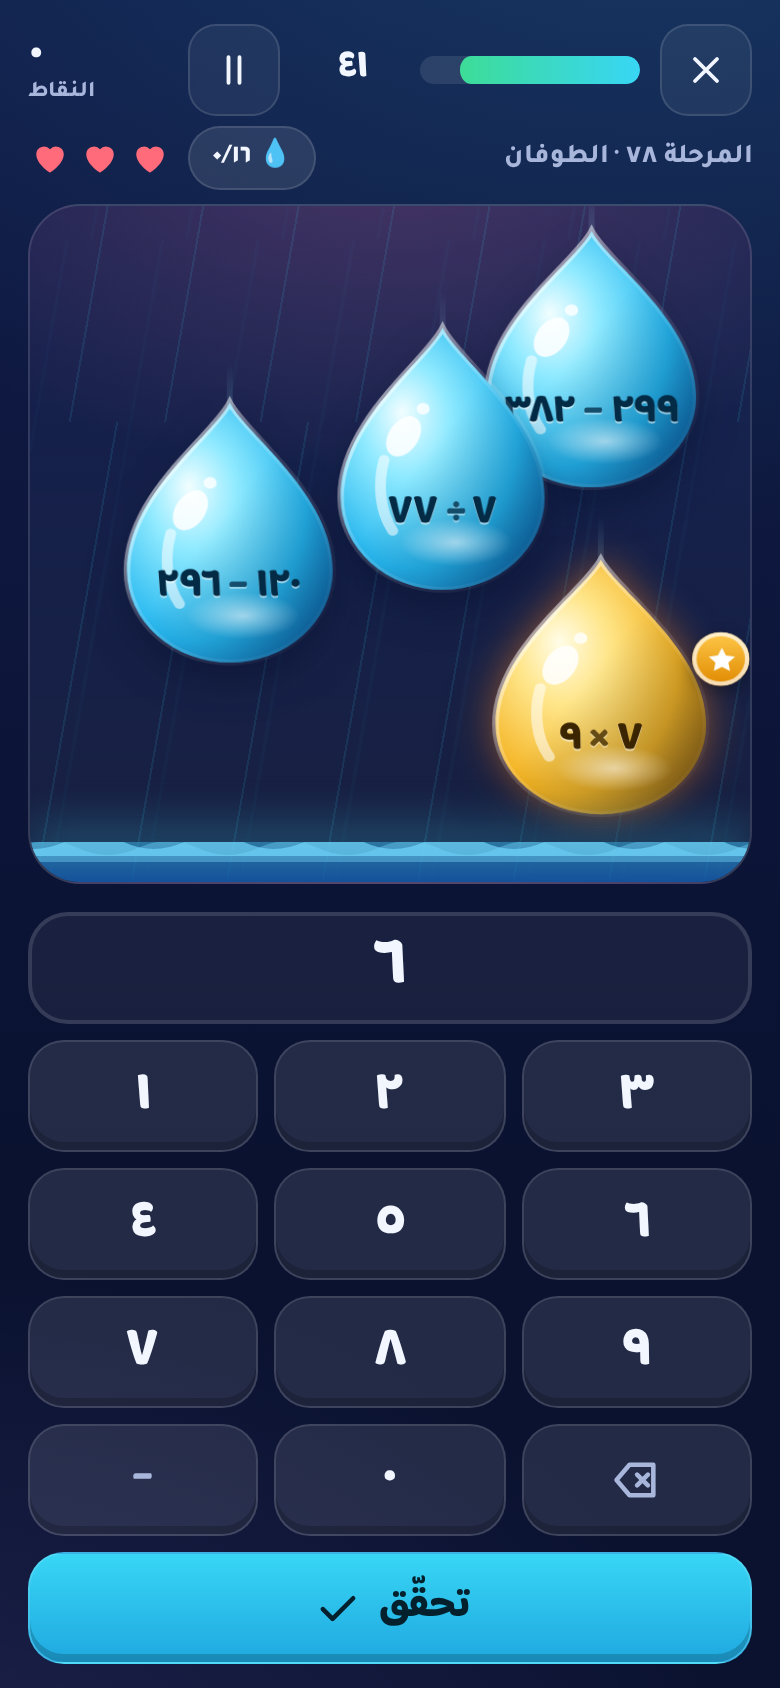
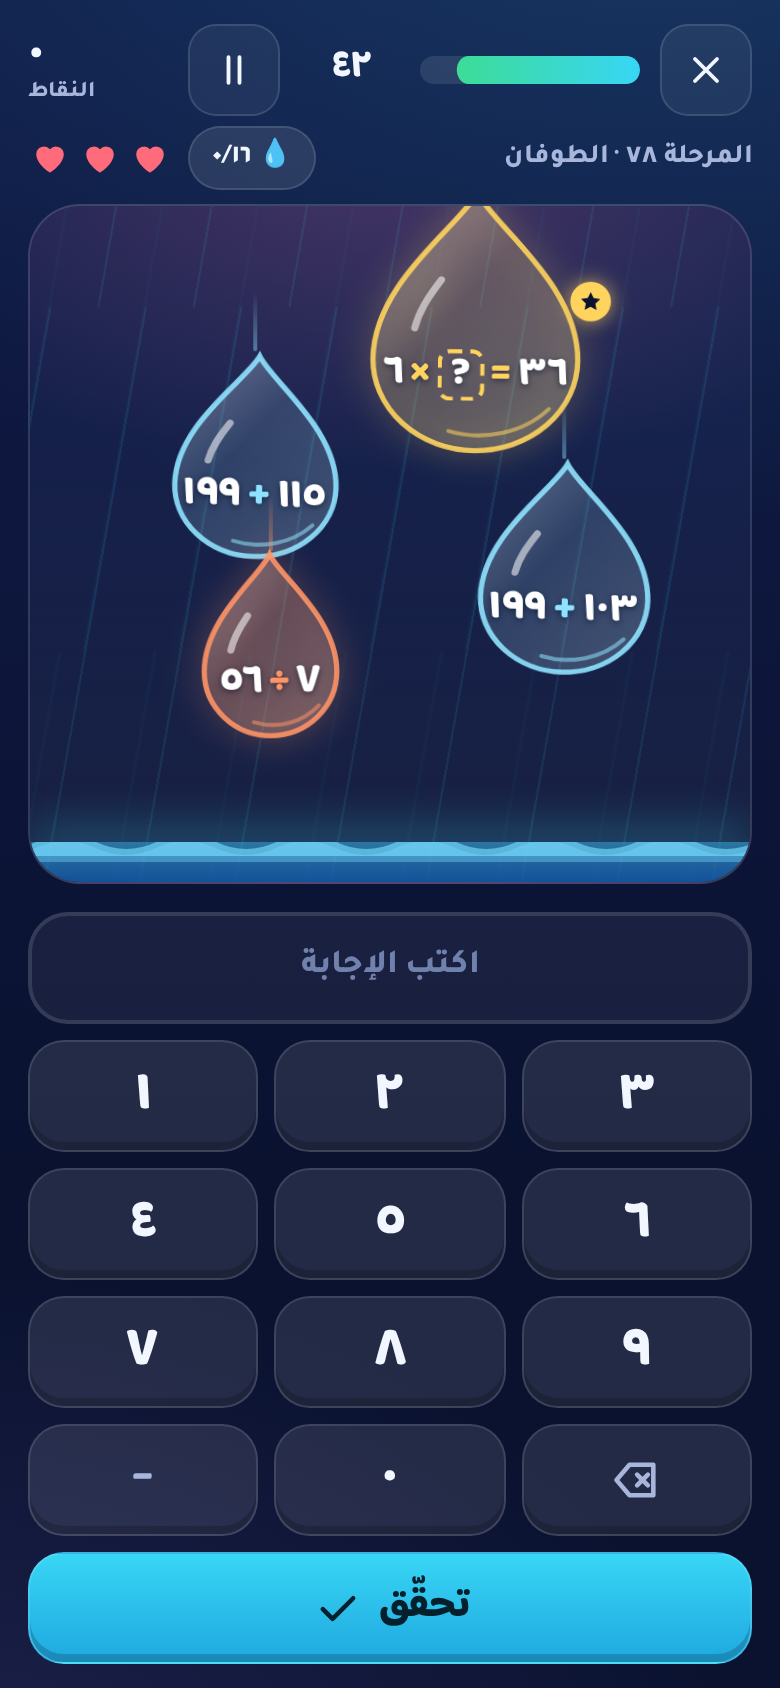
Simple transparent drops: thin tinted rim, light sheen, white equations, spawn pop-in and gentle sway; matching mascot
Claude-Session: https://claude.ai/code/session_01EwnLF9W4G1tnJmqJDCphk1

Changed region(s): [[0.1538, 0.1232, 0.9846, 0.4929], [0.3692, 0.5545, 0.6154, 0.5853], [0.4308, 0.0308, 0.4923, 0.0616]]

diff --git a/public/styles/main.css b/public/styles/main.css
@@ -531,49 +531,43 @@ details.how ul { margin: 6px 0 0; padding-inline-start: 20px; color: var(--muted
 .sky.flash::after { content: ''; position: absolute; inset: 0; background: #fff; animation: flashOut .45s both; pointer-events: none; }
 @keyframes flashOut { from { opacity: .8; } to { opacity: 0; } }
 .sky.frozen { box-shadow: inset 0 0 0 3px #BFF3FF, inset 0 0 40px rgba(191, 243, 255, .35); }
-.sky.frozen .drop { filter: saturate(.6) brightness(1.15); }
+.sky.frozen .drop { --tint: #DFF8FF; }
 .sky.veiled .drop { filter: blur(12px); opacity: .4; }
-/* ---- القطرة: شكل زجاجي حقيقي (SVG) ---- */
-.drop { position: absolute; top: 0; left: 0; width: 92px; height: 98px; will-change: transform; contain: layout style; pointer-events: none; }
-.drop::before { /* أثر السقوط */ content: ''; position: absolute; left: 50%; bottom: 78%; width: 3px; height: 46px; transform: translateX(-50%); border-radius: 3px;
-  background: linear-gradient(180deg, transparent, rgba(160, 230, 255, .32)); }
-.drop-inner { position: absolute; inset: 0; display: block; transform-origin: 50% 85%; animation: dropWobble 1.6s ease-in-out infinite; }
-.drop-shape { position: absolute; inset: 0; width: 100%; height: 100%; overflow: visible; filter: drop-shadow(0 10px 10px rgba(0, 10, 40, .38)); }
-.drop .d-body { fill: url(#dg-normal); transition: fill .25s; }
-.drop.near .d-body { fill: url(#dg-near); }
-.drop.k-gold .d-body { fill: url(#dg-gold); }
-.drop.k-ice .d-body { fill: url(#dg-ice); }
-.drop.k-storm .d-body { fill: url(#dg-storm); }
+/* ---- القطرة: شفافة وبسيطة ---- */
+.drop { --tint: #8FE3FF; position: absolute; top: 0; left: 0; width: 92px; height: 98px; will-change: transform; contain: layout style; pointer-events: none; }
+.drop.k-gold { --tint: #FFD45E; }
+.drop.k-ice { --tint: #D4F7FF; }
+.drop.k-storm { --tint: #B9A6FF; }
+.drop.near { --tint: #FF9466; }
+.drop::before { /* أثر سقوط خفيف */ content: ''; position: absolute; left: 50%; bottom: 99%; width: 2px; height: 30px; transform: translateX(-50%); border-radius: 2px;
+  background: linear-gradient(180deg, transparent, color-mix(in srgb, var(--tint) 45%, transparent)); }
+.drop-inner { position: absolute; inset: 0; display: block; transform-origin: 50% 80%; animation: dropIn .28s cubic-bezier(.2, .9, .3, 1.3) both, dropSway 2.4s ease-in-out .28s infinite; }
+.drop-shape { position: absolute; inset: 0; width: 100%; height: 100%; overflow: visible; }
+.drop .d-body { fill: var(--tint); fill-opacity: .13; transition: fill .3s; }
+.drop .d-rim { fill: none; stroke: var(--tint); stroke-width: 2.6; stroke-opacity: .9; vector-effect: non-scaling-stroke; transition: stroke .3s; }
+.drop .d-hl { fill: none; stroke: #fff; stroke-opacity: .55; stroke-width: 3.5; stroke-linecap: round; vector-effect: non-scaling-stroke; }
+.drop .d-ref { fill: none; stroke: var(--tint); stroke-opacity: .55; stroke-width: 2; stroke-linecap: round; vector-effect: non-scaling-stroke; }
+.drop.k-gold .drop-shape, .drop.k-storm .drop-shape, .drop.near .drop-shape { filter: drop-shadow(0 0 8px color-mix(in srgb, var(--tint) 55%, transparent)); }
+.drop.near .d-body { fill-opacity: .2; }
 .drop-txt { position: absolute; left: 0; right: 0; top: 47%; bottom: 8%; display: flex; align-items: center; justify-content: center;
-  font-family: var(--font-display); font-weight: 800; font-size: 1.22rem; color: #032B45; letter-spacing: .2px;
-  text-shadow: 0 1px 0 rgba(255, 255, 255, .55); white-space: nowrap; }
+  font-family: var(--font-display); font-weight: 800; font-size: 1.22rem; color: #fff; letter-spacing: .2px;
+  text-shadow: 0 1px 3px rgba(0, 12, 40, .55); white-space: nowrap; }
 .drop.long .drop-txt { font-size: 1.02rem; }
 .drop.xlong .drop-txt { font-size: .9rem; letter-spacing: 0; }
 .sky .ripple, .sky .droplet, .sky .puddle { z-index: 60; }
 .sky .ground { z-index: 50; }
 .drop .dq { direction: ltr; unicode-bidi: isolate; margin: 0; gap: .18em; }
-.drop .dq .op { color: inherit; opacity: .75; }
-.drop .dq .blank { border: 2px dashed currentColor; border-radius: 6px; min-width: 1.15em; padding: 0 .1em; color: inherit; opacity: .9; }
-.drop.near .drop-txt { color: #3A1400; }
-.drop.k-gold .drop-txt { color: #3B2500; }
-.drop.k-ice .drop-txt { color: #053A4C; }
-.drop.k-storm .drop-txt { color: #fff; text-shadow: 0 1px 2px rgba(20, 0, 80, .6); }
-.drop-badge { position: absolute; top: 30%; right: -6px; width: 26px; height: 26px; border-radius: 50%; display: grid; place-items: center;
-  box-shadow: 0 3px 8px rgba(0, 0, 0, .35), inset 0 0 0 2px rgba(255, 255, 255, .7); animation: badgePulse 1.2s ease-in-out infinite; }
-.drop-badge svg { width: 15px; height: 15px; }
-.drop.k-gold .drop-badge { background: linear-gradient(180deg, #FFC94A, #E08A00); }
-.drop.k-ice .drop-badge { background: linear-gradient(180deg, #7FD8F0, #2E8FB8); }
-.drop.k-storm .drop-badge { background: linear-gradient(180deg, #9B8CFF, #5A36E0); }
-.drop.k-gold .drop-shape { filter: drop-shadow(0 0 12px rgba(255, 201, 74, .65)) drop-shadow(0 10px 10px rgba(0, 10, 40, .35)); }
-.drop.k-storm .drop-shape { filter: drop-shadow(0 0 12px rgba(155, 140, 255, .75)) drop-shadow(0 10px 10px rgba(0, 10, 40, .35)); }
-.drop.k-ice .drop-shape { filter: drop-shadow(0 0 10px rgba(200, 245, 255, .7)) drop-shadow(0 10px 10px rgba(0, 10, 40, .35)); }
-.drop.near .drop-shape { filter: drop-shadow(0 0 10px rgba(255, 140, 40, .55)) drop-shadow(0 10px 10px rgba(0, 10, 40, .35)); }
-@keyframes dropWobble { 0%, 100% { transform: scale(1, 1); } 50% { transform: scale(1.035, .97); } }
-@keyframes badgePulse { 50% { transform: scale(1.12); } }
-[data-motion="reduce"] .drop-inner, [data-motion="reduce"] .drop-badge { animation: none; }
+.drop .dq .op { color: var(--tint); opacity: 1; }
+.drop .dq .blank { border: 2px dashed var(--tint); border-radius: 6px; min-width: 1.15em; padding: 0 .1em; color: inherit; }
+.drop-badge { position: absolute; top: 34%; right: -2px; width: 20px; height: 20px; border-radius: 50%; display: grid; place-items: center;
+  color: #0A1230; background: var(--tint); box-shadow: 0 0 10px color-mix(in srgb, var(--tint) 70%, transparent); }
+.drop-badge svg { width: 12px; height: 12px; }
+@keyframes dropIn { from { transform: scale(.4); opacity: 0; } }
+@keyframes dropSway { 0%, 100% { transform: rotate(-2deg) scale(1, 1); } 50% { transform: rotate(2deg) scale(1.02, .985); } }
+[data-motion="reduce"] .drop-inner { animation: none; }
 .drop.popped { animation: dropPop .24s ease-out both; }
 .drop.splash { animation: dropSplash .3s ease-in both; }
-@keyframes dropPop { 40% { opacity: 1; } to { transform: var(--tf) scale(1.45); opacity: 0; } }
+@keyframes dropPop { 30% { opacity: 1; } to { transform: var(--tf) scale(1.3); opacity: 0; } }
 @keyframes dropSplash { to { transform: var(--tf) translateY(18px) scale(1.5, .25); opacity: 0; } }
 .sky .droplet { position: absolute; margin: -4px; border-radius: 50% 50% 50% 50% / 62% 62% 38% 38%; pointer-events: none;
   background: radial-gradient(circle at 35% 30%, #fff, var(--c) 55%); transform: rotate(var(--r)); animation: droplet .6s cubic-bezier(.2, .7, .3, 1) both; }

diff --git a/public/src/ui/drop.js b/public/src/ui/drop.js
@@ -1,38 +1,24 @@
 /* =========================================================================
-   رسم القطرات: قطرة ماء زجاجية حقيقية الشكل (SVG) بتدرّج عمق، انعكاس ضوء،
-   حافة لامعة، وتوهّج داخلي — مع شارات للقطرات الخاصة ومؤثرات انفجار ورذاذ.
-   كل التدرّجات معرّفة مرة واحدة في السماء ويُختار لونها بالـ CSS حسب النوع.
+   رسم القطرات: قطرة ماء شفافة بسيطة (SVG) — حافة رفيعة ولمعة خفيفة،
+   ولون كل نوع يأتي من متغير CSS واحد (--tint). مع شارات صغيرة للقطرات الخاصة
+   ومؤثرات انفجار ورذاذ خفيفة.
    ========================================================================= */
 
 // شكل القطرة: الرأس في الأعلى (60,4) وجسم دائري مركزه (60,90)
 export const DROP_PATH = 'M60 3 C 52 20 13 50 13 89 A 47 47 0 0 0 107 89 C 107 50 68 20 60 3 Z';
 
-const STOPS = {
-  normal: ['#F2FEFF', '#8FEAFF', '#26B8F0', '#0B63A8'],
-  near: ['#FFF6DE', '#FFD27A', '#FF9330', '#B9420D'],
-  gold: ['#FFFDE8', '#FFE68A', '#F4B21F', '#9C6200'],
-  ice: ['#FFFFFF', '#E9FCFF', '#A3E6F7', '#3EA6CC'],
-  storm: ['#F4EEFF', '#C3B2FF', '#7B5CF6', '#3A1FB0'],
-};
-
-/** تعريفات SVG المشتركة (تُضاف مرة واحدة داخل السماء) */
+/** تعريفات SVG المشتركة (تُضاف مرة واحدة داخل السماء): لمعة خفيفة فقط — الجسم شفاف ولونه من CSS */
 export function dropDefsSVG() {
-  const grads = Object.entries(STOPS).map(([k, [a, b, c, d]]) => `
-    <radialGradient id="dg-${k}" cx="0.36" cy="0.42" r="0.78" fx="0.3" fy="0.32">
-      <stop offset="0" stop-color="${a}"/><stop offset="0.28" stop-color="${b}"/><stop offset="0.68" stop-color="${c}"/><stop offset="1" stop-color="${d}"/>
-    </radialGradient>`).join('');
   return `<svg class="drop-defs" width="0" height="0" aria-hidden="true" focusable="false" style="position:absolute">
-    <defs>${grads}
-      <radialGradient id="dg-glow" cx="0.5" cy="0.5" r="0.5"><stop offset="0" stop-color="#fff" stop-opacity=".55"/><stop offset="1" stop-color="#fff" stop-opacity="0"/></radialGradient>
-      <linearGradient id="dg-rim" x1="0" y1="0" x2="1" y2="1"><stop offset="0" stop-color="#fff" stop-opacity=".95"/><stop offset=".45" stop-color="#fff" stop-opacity=".15"/><stop offset="1" stop-color="#fff" stop-opacity="0"/></linearGradient>
-      <linearGradient id="dg-shade" x1="0" y1="0" x2="1" y2="1"><stop offset=".45" stop-color="#001a3a" stop-opacity="0"/><stop offset="1" stop-color="#001a3a" stop-opacity=".38"/></linearGradient>
+    <defs>
+      <linearGradient id="dg-sheen" x1="0" y1="0" x2="0.9" y2="1"><stop offset="0" stop-color="#fff" stop-opacity=".28"/><stop offset=".45" stop-color="#fff" stop-opacity=".04"/><stop offset="1" stop-color="#fff" stop-opacity=".12"/></linearGradient>
     </defs></svg>`;
 }
 
 const BADGE = {
-  gold: '<path d="M12 2.5l2.9 6 6.6.9-4.8 4.6 1.2 6.5L12 17.4l-5.9 3.1 1.2-6.5L2.5 9.4l6.6-.9z" fill="#fff"/>',
-  ice: '<g stroke="#fff" stroke-width="2.2" stroke-linecap="round" fill="none"><path d="M12 2.5v19M3.8 7.2l16.4 9.6M3.8 16.8l16.4-9.6"/><path d="M9.5 4.5 12 7l2.5-2.5M9.5 19.5 12 17l2.5 2.5"/></g>',
-  storm: '<path d="M13.5 2 5 13.5h5.8L9.6 22 19 9.8h-6z" fill="#fff"/>',
+  gold: '<path d="M12 2.5l2.9 6 6.6.9-4.8 4.6 1.2 6.5L12 17.4l-5.9 3.1 1.2-6.5L2.5 9.4l6.6-.9z" fill="currentColor"/>',
+  ice: '<g stroke="currentColor" stroke-width="2.2" stroke-linecap="round" fill="none"><path d="M12 2.5v19M3.8 7.2l16.4 9.6M3.8 16.8l16.4-9.6"/><path d="M9.5 4.5 12 7l2.5-2.5M9.5 19.5 12 17l2.5 2.5"/></g>',
+  storm: '<path d="M13.5 2 5 13.5h5.8L9.6 22 19 9.8h-6z" fill="currentColor"/>',
 };
 
 /** يبني عنصر قطرة: الشكل + المحتوى (عنصر المعادلة) + شارة اختيارية */
@@ -41,14 +27,13 @@ export function buildDrop(kind, content, label) {
   el.className = 'drop k-' + kind;
   el.setAttribute('role', 'img');
   if (label) el.setAttribute('aria-label', label);
+  // قطرة شفافة: جسم بلون خفيف جدًا + لمعة + حافة رفيعة + انعكاس سفلي — بلا ظلال ثقيلة
   el.innerHTML = `<span class="drop-inner"><svg class="drop-shape" viewBox="0 0 120 140" preserveAspectRatio="none" aria-hidden="true">
       <path class="d-body" d="${DROP_PATH}"/>
-      <path class="d-shade" d="${DROP_PATH}" fill="url(#dg-shade)"/>
-      <ellipse cx="66" cy="112" rx="26" ry="12" fill="url(#dg-glow)"/>
-      <path class="d-rim" d="${DROP_PATH}" fill="none" stroke="url(#dg-rim)" stroke-width="3"/>
-      <path d="M33 70 C 30 82 31 96 37 106" fill="none" stroke="#fff" stroke-opacity=".55" stroke-width="5" stroke-linecap="round"/>
-      <ellipse cx="42" cy="58" rx="7" ry="11" fill="#fff" fill-opacity=".85" transform="rotate(28 42 58)"/>
-      <circle cx="51" cy="44" r="3" fill="#fff" fill-opacity=".8"/>
+      <path d="${DROP_PATH}" fill="url(#dg-sheen)"/>
+      <path class="d-rim" d="${DROP_PATH}"/>
+      <path class="d-hl" d="M44 48 C 38 57 34 64 32 73"/>
+      <path class="d-ref" d="M48 126 C 64 131 82 127 94 114"/>
     </svg></span>`;
   const inner = el.firstChild;
   const txt = document.createElement('span');
@@ -67,12 +52,13 @@ export function buildDrop(kind, content, label) {
 /** يضبط حجم القطرة حسب طول المعادلة مع الحفاظ على نسبة شكل القطرة */
 export function sizeDrop(el) {
   const txt = el.querySelector('.drop-txt');
-  const tw = txt.scrollWidth;
+  // نقيس المعادلة نفسها (offsetWidth لا يتأثر بحركة الظهور)، لا الحاوية الموسّطة
+  const measure = () => (txt.firstElementChild || txt).offsetWidth;
+  const tw = measure();
   if (tw > 150) el.classList.add('long', 'xlong');
   else if (tw > 92) el.classList.add('long');
-  const tw2 = txt.scrollWidth;
   // الجزء الدائري من القطرة عند سطر النص يعادل ~٧٤٪ من العرض: نضمن أن المعادلة داخله
-  const w = Math.max(84, Math.round(tw2 / 0.74 + 6));
+  const w = Math.max(84, Math.round(measure() / 0.74 + 6));
   const h = Math.round(Math.max(96, w * 1.06));
   el.style.width = w + 'px';
   el.style.height = h + 'px';

diff --git a/public/src/ui/mascot.js b/public/src/ui/mascot.js
@@ -26,17 +26,14 @@ export function mascotSVG({ skin = 'sky', acc = 'none', mood = 'happy', size = 9
   const id = 'm' + Math.random().toString(36).slice(2, 7);
   return `<svg class="mascot mood-${mood}" viewBox="0 -14 100 136" width="${size}" height="${Math.round(size * 1.36)}" role="img" aria-label="${label}">
   <defs>
-    <radialGradient id="${id}" cx=".36" cy=".5" r=".78" fx=".3" fy=".38"><stop offset="0" stop-color="#fff" stop-opacity=".95"/><stop offset=".22" stop-color="${c1}"/><stop offset=".66" stop-color="${c2}"/><stop offset="1" stop-color="${c3}"/></radialGradient>
-    <radialGradient id="${id}g" cx=".6" cy=".86" r=".42"><stop offset="0" stop-color="#fff" stop-opacity=".5"/><stop offset="1" stop-color="#fff" stop-opacity="0"/></radialGradient>
+    <linearGradient id="${id}" x1="0" y1="0" x2=".9" y2="1"><stop offset="0" stop-color="${c1}" stop-opacity=".35"/><stop offset=".55" stop-color="${c2}" stop-opacity=".14"/><stop offset="1" stop-color="${c2}" stop-opacity=".3"/></linearGradient>
   </defs>
-  <ellipse cx="50" cy="116" rx="26" ry="4" fill="rgba(0,0,0,.2)" class="m-shadow"/>
+  <ellipse cx="50" cy="116" rx="24" ry="3.5" fill="${c2}" fill-opacity=".25" class="m-shadow"/>
   <g class="m-body">
     <path d="M50 4C38 26 14 50 14 77a36 36 0 0 0 72 0C86 50 62 26 50 4z" fill="url(#${id})"/>
-    <path d="M50 4C38 26 14 50 14 77a36 36 0 0 0 72 0C86 50 62 26 50 4z" fill="url(#${id}g)"/>
-    <path d="M50 4C38 26 14 50 14 77a36 36 0 0 0 72 0C86 50 62 26 50 4z" fill="none" stroke="rgba(255,255,255,.45)" stroke-width="1.6"/>
-    <path d="M30 60c-5 9-6 19-3 27" fill="none" stroke="rgba(255,255,255,.7)" stroke-width="5" stroke-linecap="round"/>
-    <ellipse cx="38" cy="42" rx="4.5" ry="7" fill="rgba(255,255,255,.75)" transform="rotate(28 38 42)"/>
-    <path d="M58 104q12-4 18-16" fill="none" stroke="rgba(0,20,60,.18)" stroke-width="4" stroke-linecap="round"/>
+    <path d="M50 4C38 26 14 50 14 77a36 36 0 0 0 72 0C86 50 62 26 50 4z" fill="none" stroke="${c1}" stroke-width="2.6"/>
+    <path d="M37 33c-5 7-8 13-10 20" fill="none" stroke="#fff" stroke-opacity=".7" stroke-width="3.5" stroke-linecap="round"/>
+    <path d="M40 106q16 5 30-6" fill="none" stroke="${c1}" stroke-opacity=".6" stroke-width="2" stroke-linecap="round"/>
     ${ACCS[acc] || ''}
   </g></svg>`;
 }

diff --git a/public/sw.js b/public/sw.js
@@ -2,7 +2,7 @@
    يخزّن اللعبة محليًا لتعمل بلا إنترنت بعد أول زيارة.
    قائمة الملفات ورقم الإصدار يولّدهما: node scripts/build-sw.mjs */
 
-const CACHE = 'math-clash-de97857772';
+const CACHE = 'math-clash-7ec62d3e72';
 const ASSETS = [
   './',
   './admin.html',
